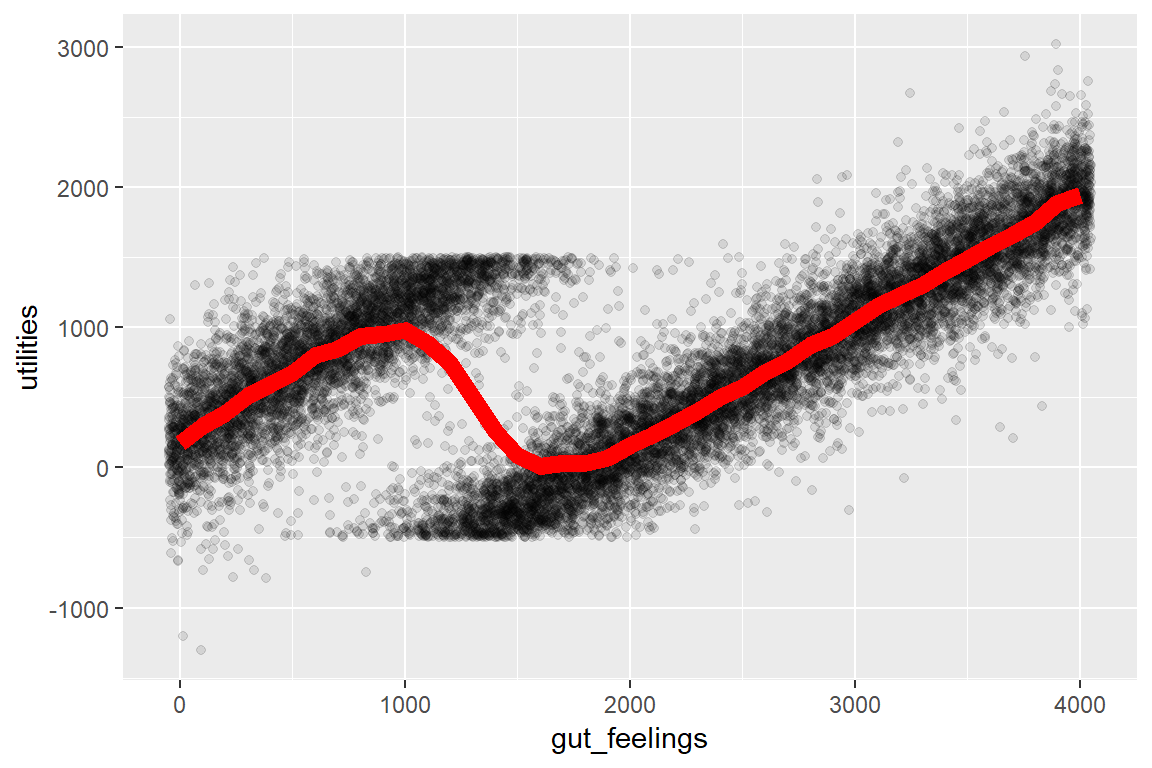
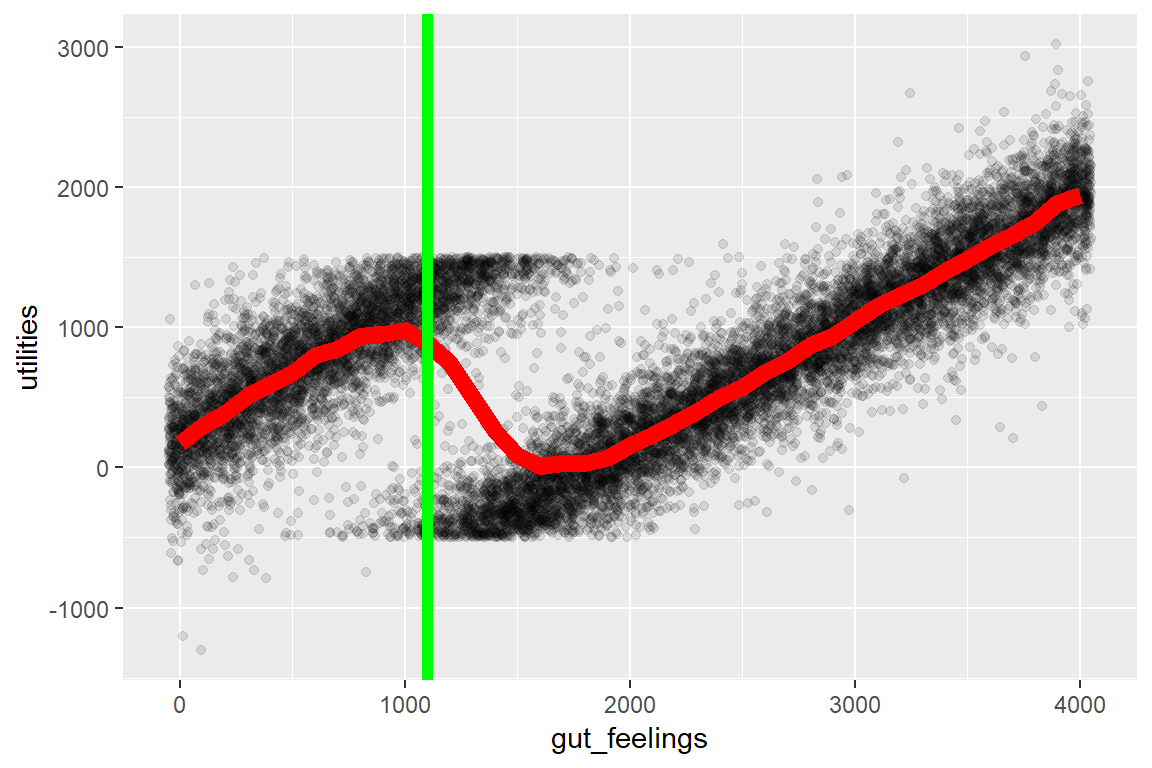
Various small updates

Changed region(s): [[0.3438, 0.0, 0.375, 0.875]]

diff --git a/index.html b/index.html
@@ -323,7 +323,7 @@ div.tocify {
 <!-- From https://stackoverflow.com/a/37839683/1297830 -->
 <link rel="stylesheet" type="text/css" href="include/hideOutput.css">
 <script src="include/hideOutput.js"></script>
-<p>By Jonas Kristoffer Lindeløv (<a href="https://lindeloev.net">blog</a>, <a href="https://vbn.aau.dk/da/persons/117060">profile</a>).<br /> Last updated: 14 May, 2019 (See <a href="https://github.com/lindeloev/utility-theory/commits/master">changelog</a>).</p>
+<p>By Jonas Kristoffer Lindeløv (<a href="https://lindeloev.net">blog</a>, <a href="https://vbn.aau.dk/da/persons/117060">profile</a>).<br /> Last updated: 15 May, 2019 (See <a href="https://github.com/lindeloev/utility-theory/commits/master">changelog</a>).</p>
 <!-- Social sharing. From simplesharebuttons.com -->
 <style type="text/css">
   #share-buttons img {
@@ -343,22 +343,11 @@ div.tocify {
 <p><br /></p>
 <!--
 TO DO NOW:
- * DONE: Rewrite intro.
- * DONE: Update chocolate example and move it down.
- * DONE: Write up example 1
- * DONE: Mention "posterior predictive distribution" instead of "prediction intervals"
- * DONE: Add example where we merge priors from different sources.
- * DONE: Add Bayesian priors to the problem 2.2
- * NO: Loss function on 2.2?
- * DONE: Write up the sessions*method + mo(symptoms) model. Justify priors?
- 
- * Add code folding here and there
  * Add plot from pt package
 
 Here's a description of the above code which should make sense to you at the end of this tutorial: To maximize *expected utility*, apply a *loss function* to the *posterior predictive distribution* for each combination of *predictors* and choose (*decide!*) the combination which *minimizes loss*, i.e., *maximizes utility*. 
-
 -->
-<p>How do you use data to make optimal decisions? A popular answer is <a href="https://saylordotorg.github.io/text_risk-management-for-enterprises-and-individuals/s07-01-utility-theory.html">utility theory</a> and the aim of the present document is to show that it can be dead-easy!</p>
+<p>How do you use data to make optimal decisions? A popular answer is <a href="https://saylordotorg.github.io/text_risk-management-for-enterprises-and-individuals/s07-01-utility-theory.html">utility theory</a> and the aim of the present tutorial is to show that it can be dead-easy!</p>
 <p>Here’s a sneak peek at the full code for the first example we’ll go through. Three simple steps in six lines of code, and you have an optimal decision:</p>
 <pre class="r"><code># Step 1: infer predictors (classical regression)
 fit_gut = brm(previous_earnings ~ gut_feeling, D)
@@ -399,8 +388,7 @@ library(openxlsx)</code></pre>
 <div id="step-1-infer-predictors" class="section level2">
 <h2><span class="header-section-number">1.1</span> Step 1: Infer predictors</h2>
 <p>Let’s do a simple linear regression to model how that gut feeling <em>predicts</em> actual earnings. For now, we use default priors for simplicity.</p>
-<pre class="r"><code>library(brms)
-fit_gut = brm(previous_earnings ~ gut_feeling, D)</code></pre>
+<pre class="r"><code>fit_gut = brm(previous_earnings ~ gut_feeling, D)</code></pre>
 </div>
 <div id="step-2-add-the-utility-of-taking-the-job" class="section level2">
 <h2><span class="header-section-number">1.2</span> Step 2: Add the utility of taking the job</h2>
@@ -459,7 +447,7 @@ ggplot(D_plot) +
   utilities = ifelse(values &lt; 1500, values, values * 0.9 - 18500 * 0.1)  # 
   utilities  # Return it
 }</code></pre>
-<p>To make an informed decision, you would probably start by plotting <code>predicted_utility</code> for the available jobs or for a range of <code>gut_feelings</code> and eye-ball which you are willing to go with. You can see that around $1000 is a local sweet spot:</p>
+<p>To make an informed decision, you would probably start by plotting <code>predicted_utility</code> for the available jobs or for a range of <code>gut_feelings</code> and eye-ball which you are willing to go with. You can see that around $1000 is a local sweet spot and that <code>gut_feeling = 1100</code> is still relatively OK:</p>
 <pre class="r"><code># Evaluate this for gut feelings 0, 100, 200, 300, etc.
 D_plot = data.frame(gut_feelings = seq(0, 4000, 100)) %&gt;%
   rowwise() %&gt;%
@@ -469,7 +457,8 @@ D_plot = data.frame(gut_feelings = seq(0, 4000, 100)) %&gt;%
 # Visualize a fraction of it to speed up.
 ggplot(sample_frac(D_plot, 0.1), aes(x=gut_feelings, y=utilities)) + 
   geom_jitter(width=50, height=0, alpha=0.1) +  # Utility-transformed posterior predictive samples
-  stat_summary(geom=&#39;line&#39;, lwd=3, col=&#39;red&#39;)  # Expected utility</code></pre>
+  stat_summary(geom=&#39;line&#39;, lwd=3, col=&#39;red&#39;) +   # Expected utility
+  geom_vline(xintercept=1100, col=&#39;green&#39;, lwd=2)  # Gut feeling (see previous figure)</code></pre>
 <p><img src="index_files/figure-html/predict_gut-1.png" width="576" style="display: block; margin: auto;" /></p>
 <p>You can see that you should definitely not take the job if your gut feeling is a profit in the range between $1.200 and $3.500 where you would basically work for free. For larger jobs (e.g., $10.000), you would still profit substantially.</p>
 <p>If you want to search for local maxima or minima, you can leverage <code>optim</code> to find it. Give it a reasonable starting value and put a minus sign on the mean of <code>predicted_utility</code> to find a local maximum. Here you earn $972 when <code>gut_feeling = 981</code>.</p>
@@ -519,8 +508,7 @@ ggplot(sample_frac(D_plot, 0.1), aes(x=gut_feelings, y=utilities)) +
 <li><code>mo(symptoms)</code>: More symptoms likely reduce the chance of success, everything else being equal. This effect is modeled as ordinal (monotonic, <code>mo</code>).</li>
 </ul>
 <p>To put priors on the predictors, let’s first look up their names:</p>
-<pre class="r"><code>library(brms)
-get_prior(model_ptsd, D, family=bernoulli)</code></pre>
+<pre class="r"><code>get_prior(model_ptsd, D, family=bernoulli)</code></pre>
 <pre><code>##                 prior     class              coef group resp dpar nlpar
 ## 1                             b                                        
 ## 2                             b        mosymptoms                      
@@ -680,7 +668,7 @@ EU_{choco} &amp;= \sum_{N=1}^3 N \cdot P(N) \cdot U(N) \\
 </div>
 <div id="why-we-need-stats-to-do-this" class="section level2">
 <h2><span class="header-section-number">3.3</span> Why we need stats to do this</h2>
-<p>As you begin working with more and more outcomes (number of peices of chocolate), this becomes complex to do by hand. For example, many models use a normal distribution which has infinitely many outcomes (<span class="math inline">\(x\)</span> is continuous), each with it’s own probability and utility. Luckily, it is dead simple to get a computer to do this. We will start with a relatively simple example below.</p>
+<p>As you begin working with more and more outcomes (number of peices of chocolate), this becomes complex to do by hand. For example, many models use a normal distribution which has infinitely many outcomes (<span class="math inline">\(x\)</span> is continuous), each with it’s own probability and utility. Luckily, it is dead simple to get a computer to do this as the examples in this tutorial demonstrate.</p>
 </div>
 </div>
 <div id="citosd" class="section level1">
